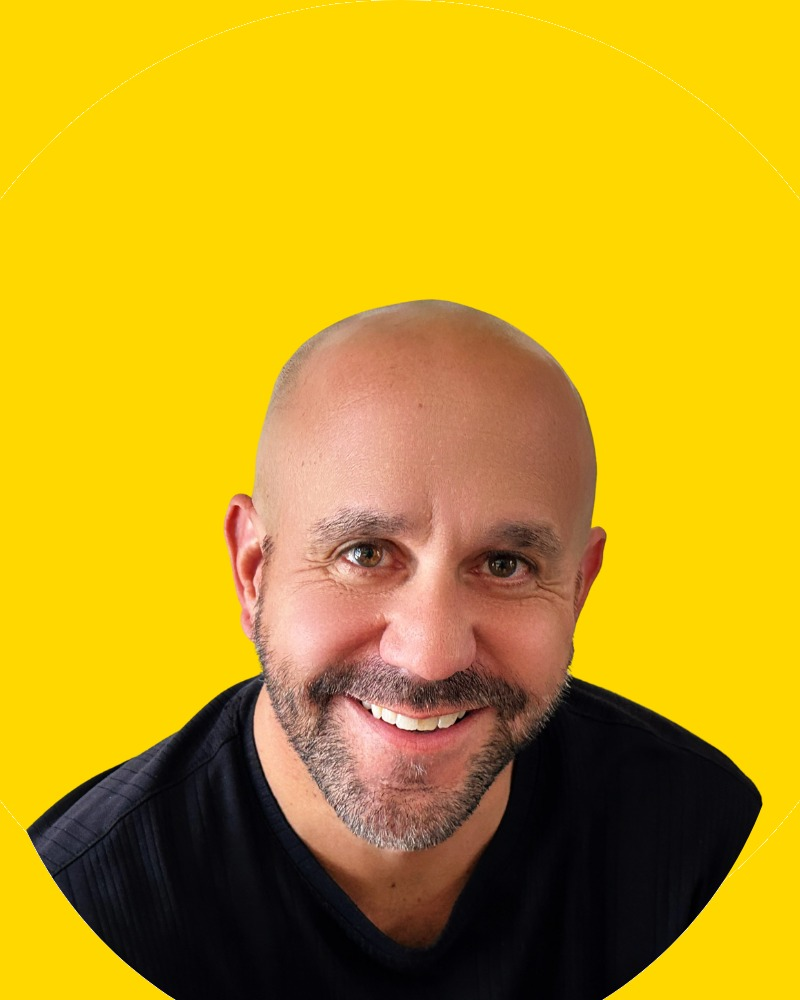
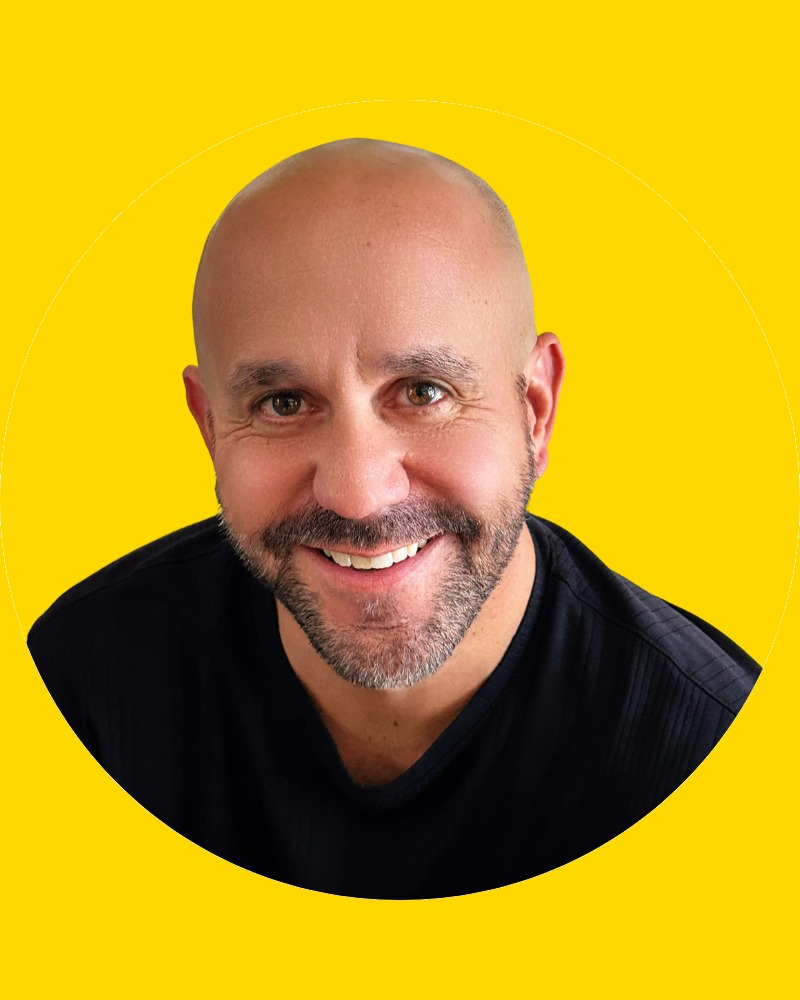
feat: display hero headshot as a circle using new portrait

diff --git a/src/components/ui/HeadshotPlaceholder.tsx b/src/components/ui/HeadshotPlaceholder.tsx
@@ -13,17 +13,16 @@ export default function HeadshotPlaceholder() {
   const [errored, setErrored] = useState(false);
 
   return (
-    <div className="relative aspect-[4/5] w-full overflow-hidden rounded-2xl border border-gold/30 bg-gradient-to-b from-charcoal to-black shadow-[0_0_60px_rgba(255,232,26,0.15)]">
-      <div className="absolute inset-0 rounded-2xl ring-1 ring-inset ring-gold/20" />
+    <div className="relative mx-auto aspect-square w-full max-w-md overflow-hidden rounded-full border-4 border-gold/40 bg-gradient-to-b from-charcoal to-black shadow-[0_0_70px_rgba(255,232,26,0.25)]">
+      <div className="absolute inset-0 rounded-full ring-1 ring-inset ring-gold/30" />
       {!errored ? (
-        // `-scale-x-100` mirrors the photo horizontally so Mike faces left,
-        // toward the hero copy. Replace /public/images/mike-headshot.jpg to
-        // swap the photo.
+        // Circular portrait. Replace /public/images/mike-headshot.jpg to swap
+        // the photo.
         // eslint-disable-next-line @next/next/no-img-element
         <img
           src="/images/mike-headshot.jpg"
           alt="Mike Prenesti, The Mortgage Jedi"
-          className="h-full w-full -scale-x-100 object-cover"
+          className="h-full w-full rounded-full object-cover"
           onError={() => setErrored(true)}
         />
       ) : (